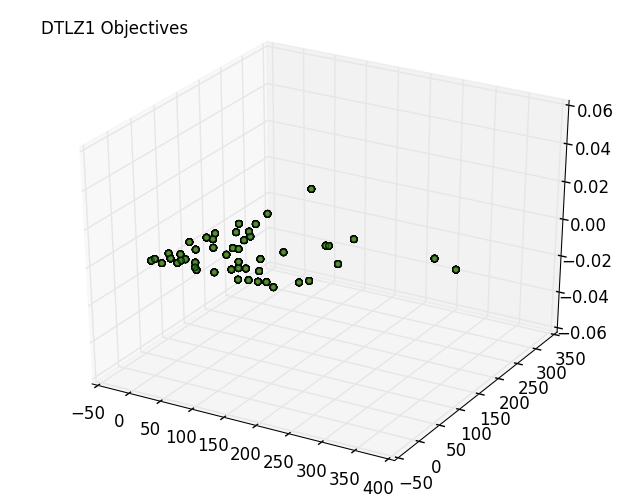
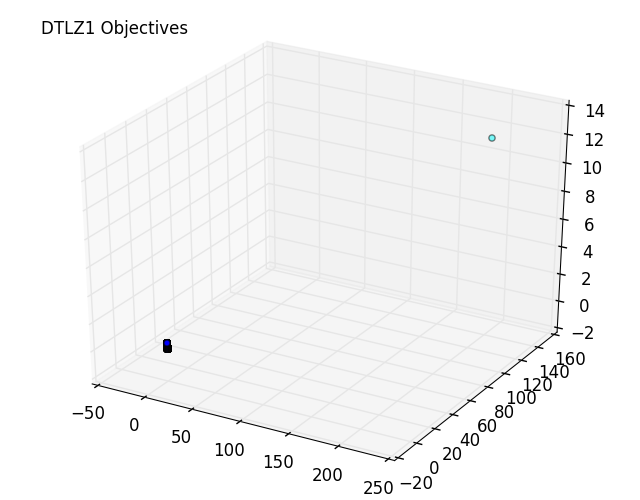
Grapher fix for typing issue

diff --git a/project/test.py b/project/test.py
@@ -9,8 +9,7 @@ from classicalGlobalPSOV2 import *
 # Osyczka2, Fonseca, ZDT1, ZDT2, ZDT3, ZDT4, ZDT6, Tanaka, Constr_Ex, Srinivas, Golinski, Viennet2, Viennet3, Viennet4, Water
 # Tanaka, Viennet2, Viennet3, Viennet4, Constr_Ex
 
-#for m in [DTLZ4, Osyczka2, Fonseca, ZDT1, ZDT2, ZDT3, ZDT4, ZDT6, Tanaka, Constr_Ex, Srinivas, Viennet2, Viennet3, Viennet4]:
-for m in [Osyczka2]: 
+for m in [DTLZ1, DTLZ2, DTLZ4, Osyczka2, Fonseca, ZDT1, ZDT2, ZDT3, ZDT4, ZDT6, Tanaka, Constr_Ex, Srinivas, Viennet2, Viennet3, Viennet4]:
     for o in [adaptiveGlobalPSO]:
         #Absolutely do not pass integers for retries or changes
-        o(m, 3.0, 500.0)
+        o(m, 1.0, 500.0)

diff --git a/project/grapher.py b/project/grapher.py
@@ -101,14 +101,9 @@ class grapher(object):
 				f = open(path, "r")
 				ln = f.readline()
 				while ln:
-					o = ln.split()
+					o = [float(x) for x in ln.split()]
 					ax.scatter(o[0], o[1], o[2], alpha = 0.5)
 					ln = f.readline()
-
-
-
-
-		
 
 		plt.savefig("pics/" + s.model.name + "Objectives.png", bbox_inches='tight')
 
